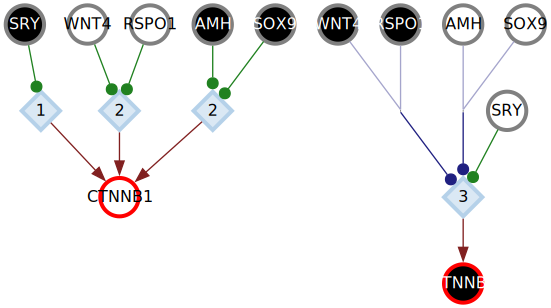
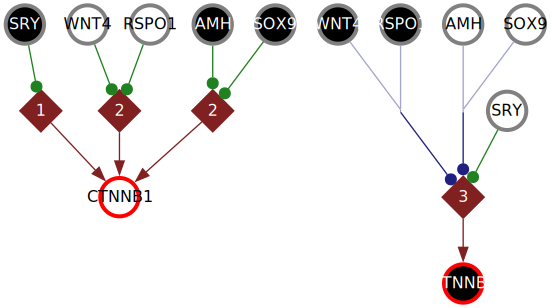
Update visualization of CM

diff --git a/dev/cm_roundtrip.py b/dev/cm_roundtrip.py
@@ -235,8 +235,8 @@ assert not canon_result.has_conflict and not canon_result.is_incomplete
 #
 # Uses ``cana.drawing.canalizing_map.draw_canalizing_map_graphviz``.
 # Writes ``.gv`` and ``.png`` under ``dev/logs/cm_roundtrip_figures/``.
-# Nested ``feed`` edges are remapped for the legacy drawer.  If system
-# Graphviz is missing, falls back to a portable ``dot_static`` + SVG→PNG.
+# If system Graphviz is missing, falls back to a portable ``dot_static``
+# + SVG→PNG.
 
 # %%
 _DEV_DIR = Path(__file__).resolve().parent
@@ -253,20 +253,6 @@ CM_GRAPHS = {
     "hand_CTNNB1": hand_CTNNB1,
     "canonical_CTNNB1": canonical_CTNNB1,
 }
-
-
-def _graph_for_legacy_drawer(graph: nx.DiGraph) -> nx.DiGraph:
-    """Copy *graph*, remapping edge types the legacy drawer does not know.
-
-    Nested-threshold CMs use ``feed`` (threshold→threshold); the GraphViz
-    drawer only accepts out / literal / fusing / fused / simplified.  Treat
-    ``feed`` as ``literal`` for display only.
-    """
-    H = graph.copy()
-    for _s, _t, d in H.edges(data=True):
-        if d.get("type") == "feed":
-            d["type"] = "literal"
-    return H
 
 
 def _ensure_dot_executable() -> str | None:
@@ -342,7 +328,7 @@ def try_draw_cm(name: str, graph: nx.DiGraph, out_dir: Path) -> None:
         print(f"  skipped (drawer unavailable: {_DRAW_IMPORT_ERROR})")
         return
     try:
-        gv = draw_canalizing_map_graphviz(_graph_for_legacy_drawer(graph))
+        gv = draw_canalizing_map_graphviz(graph)
     except Exception as exc:
         print(f"  draw_canalizing_map_graphviz failed: {type(exc).__name__}: {exc}")
         return
@@ -382,4 +368,5 @@ print(f"figures dir → {FIG_DIR}")
 # * Forward legacy ``canalizing_map``, ``hand_CTNNB1``, and nested-threshold
 #   ``canonical_CTNNB1`` all reconstruct CTNNB1.
 # * Drawing writes ``.gv`` + ``.png`` (portable ``dot_static`` + SVG→PNG
-#   when system Graphviz is unavailable).
+#   when system Graphviz is unavailable).  Threshold diamonds are colored
+#   by ``role`` when present.

diff --git a/cana/drawing/canalizing_map.py b/cana/drawing/canalizing_map.py
@@ -109,16 +109,36 @@ def draw_canalizing_map_graphviz(
                     color=mode_bordercolor,
                 )
 
-        # Threshold Nodes
+        # Threshold Nodes — color by optional ``role`` (legacy graphs omit it)
         elif d["type"] == "threshold":
+            # Defaults match historical CANA diamonds (no role / unknown role).
+            thr_fillcolor = "#dae8f4"
+            thr_fontcolor = "black"
+            thr_bordercolor = "#b5d1e9"
+            role = d.get("role")
+            if role == "polarity0":
+                # Match input literals set to 0 (off).
+                thr_fillcolor = off_node_fillcolor
+                thr_fontcolor = off_node_fontcolor
+                thr_bordercolor = input_node_bordercolor
+            elif role == "polarity1":
+                # Match input literals set to 1 (on).
+                thr_fillcolor = on_node_fillcolor
+                thr_fontcolor = on_node_fontcolor
+                thr_bordercolor = input_node_bordercolor
+            elif role == "schema":
+                # Match the output / ``out`` edge color.
+                thr_fillcolor = output_edge_color
+                thr_fontcolor = "white"
+                thr_bordercolor = output_edge_color
             G.node(
                 name=n,
                 label=d["label"],
                 shape="diamond",
                 style="filled,solid",
-                fillcolor="#dae8f4",
-                fontcolor="black",
-                color="#b5d1e9",
+                fillcolor=thr_fillcolor,
+                fontcolor=thr_fontcolor,
+                color=thr_bordercolor,
                 width=".4",
                 height=".4",
             )

diff --git a/tests/test_cm_lut.py b/tests/test_cm_lut.py
@@ -475,12 +475,12 @@ class TestConstructionHelpers:
         assert G.edges[a1, thr]["type"] == "literal"
         assert G.edges[thr, out1]["type"] == "out"
 
-    def test_connect_threshold_to_threshold_is_feed(self):
+    def test_connect_threshold_to_threshold_is_fused(self):
         G = nx.DiGraph()
         t0 = make_threshold(G, tau=1)
         t1 = make_threshold(G, tau=1)
         connect(G, t0, t1)
-        assert G.edges[t0, t1]["type"] == "feed"
+        assert G.edges[t0, t1]["type"] == "fused"
 
     def test_connect_illegal_pair_raises(self):
         G = nx.DiGraph()

diff --git a/cana/canalization/cm_lut.py b/cana/canalization/cm_lut.py
@@ -690,7 +690,7 @@ _CONNECT_EDGE_TYPES = {
     ("input", "fusion"): "fusing",
     ("fusion", "threshold"): "fused",
     ("threshold", "output"): "out",
-    ("threshold", "threshold"): "feed",
+    ("threshold", "threshold"): "fused",
 }
 
 
